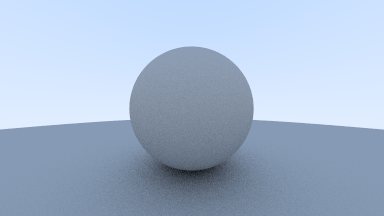
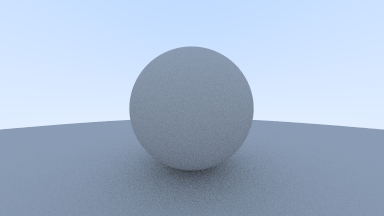
lambertian

Changed region(s): [[0.4062, 0.75, 0.5938, 0.8889]]

diff --git a/raytracing/render.go b/raytracing/render.go
@@ -34,7 +34,7 @@ func rayColor(ray Ray, world Hittable, depth int) Color {
 
 	rec := HitRecord{}
 	if world.hit(ray, 0.001, math.Inf(1), &rec) {
-		target := add(add(rec.p, rec.normal), randomInUnitSphere())
+		target := add(add(rec.p, rec.normal), randomUnitVector())
 		return mul(rayColor(Ray{origin: rec.p, direction: sub(target, rec.p)}, world, depth-1), 0.5)
 	}
 	unitDirection := unit(ray.direction)

diff --git a/raytracing/sphere.go b/raytracing/sphere.go
@@ -45,3 +45,10 @@ func randomInUnitSphere() Vec3 {
 		return p
 	}
 }
+
+func randomUnitVector() Vec3 {
+	a := random(0, 2.0*math.Pi)
+	z := random(-1, 1)
+	r := math.Sqrt(1.0 - z*z)
+	return vec3(r*math.Cos(a), r*math.Sin(a), z)
+}
